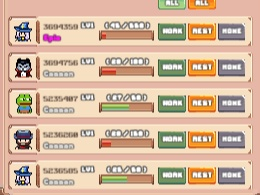
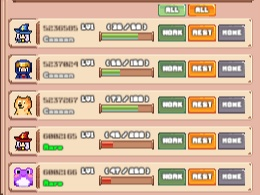
UPDATE

diff --git a/BOMB2022_V2/BOMB2022_V2_PC_KDU.py b/BOMB2022_V2/BOMB2022_V2_PC_KDU.py
@@ -440,8 +440,8 @@ def main():
     #listFind = [hero_supr]
     #print('INICIANDO COM OS RAROS - ÀS {} '.format(horarioexato()))
     #heroesSelectTpIni(False,False,False,True)
-    reloadContas()
-    return
+    #reloadContas()
+    #return
 ###########################AMBIENTE DE TESTE########################################
     
     #sleepTime(2,'VAMOS BUSCAR OS BAUS :)')
@@ -501,8 +501,12 @@ def main():
 
         cont = 1
         now_loop = time.time() #INICIO DO PRIMEIRO LOOP PRINCIPAL
+        
+        #print('INICIANDO COM OS COMUNS - ÀS {} '.format(horarioexato()))
+        #heroesSelectTpIni(True)
+        #updateMapaHero()
 
-        t_cont['hero_comum_work'] = t_cont['hero_raro_work'] = t_cont['hero_sraro_work'] = t_cont['hero_epico_work'] = now_loop #PRA NÃO ENTRAR A PRIMEIRA VEZ UMA VEZ
+        t_cont['time_reboot_bot'] = t_cont['hero_comum_work'] = t_cont['hero_raro_work'] = t_cont['hero_sraro_work'] = t_cont['hero_epico_work'] = now_loop #PRA NÃO ENTRAR A PRIMEIRA VEZ UMA VEZ
         ###################################INICIADO O LOOP PRINCIPAL###################################
         while True:
             now = time.time()#DEFINE UM TIME AO ENTRAR. EX.: 101516
@@ -518,18 +522,21 @@ def main():
             if (now - t_cont['hero_full_work']) > (c_time_loop['hero_full_work'] * 60):
                 t_cont['hero_full_work'] = now
                 #sys.stdout.write('\n VERIFICANDO A PRESENÇA DO BOTÃO CONECT OU LOGIN - ÀS {} '.format(horarioexato()))
+                updateMapaHero()      
                 print('INICIANDO COM TODOS OS HEROES - ÀS {} '.format(horarioexato()))
                 herosFullWorkIni()
-                #updateMapaHero()      
+                updateMapaHero()      
             ####################WORK TRABALHAR HEROS################################  
             if (now - t_cont['hero_sraro_work']) > (c_time_loop['hero_sraro_work'] * 60):
                 t_cont['hero_sraro_work'] = now
+                updateMapaHero()      
                 print('INICIANDO COM OS SUPER RAROS - ÀS {} '.format(horarioexato()))
                 heroesSelectTpIni(False,False,True)
                 #updateMapaHero()
                 
             if (now - t_cont['hero_comum_work']) > (c_time_loop['hero_comum_work'] * 60):
                 t_cont['hero_comum_work'] = now
+                updateMapaHero()
                 print('INICIANDO COM OS COMUNS - ÀS {} '.format(horarioexato()))
                 heroesSelectTpIni(True)
                 #updateMapaHero()
@@ -537,12 +544,14 @@ def main():
 
             if (now - t_cont['hero_raro_work']) > (c_time_loop['hero_raro_work'] * 60):
                 t_cont['hero_raro_work'] = now
+                updateMapaHero()
                 print('INICIANDO COM OS RAROS - ÀS {} '.format(horarioexato()))
                 heroesSelectTpIni(False,True)
                 #updateMapaHero()
             
             if (now - t_cont['hero_epico_work']) > (c_time_loop['hero_epico_work'] * 60):
                 t_cont['hero_epico_work'] = now
+                updateMapaHero()
                 print('INICIANDO COM OS EPICOS - ÀS {} '.format(horarioexato()))
                 heroesSelectTpIni(False,False,False,True)
                 #updateMapaHero()
